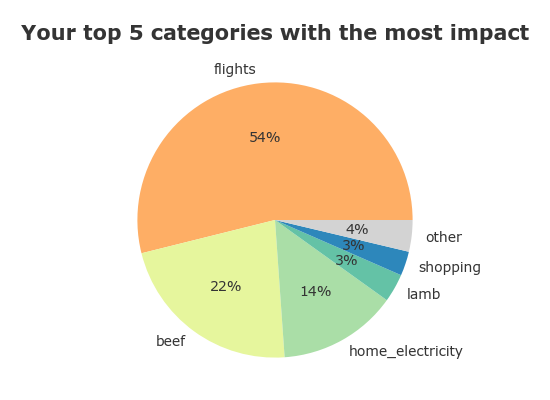
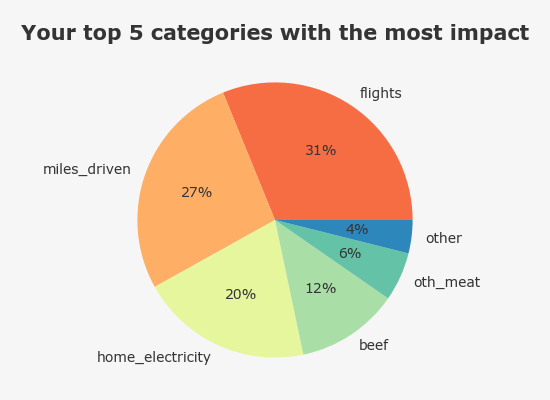
July demo

diff --git a/myapp/templates/myapp/ML.html b/myapp/templates/myapp/ML.html
@@ -54,7 +54,7 @@
 
     <h4>1.1 Generating test data</h4>
     <p>
-        To generate enough test data for the model results to be meaningful and interpretable, I created a Python script that automatically writes user responses into 
+        I simulated expected real-world distribution of answers to generate enough test data for the model results to be interpretable and meaningful. I created a Python script that automatically writes user responses into 
         the Django database thus creating sample quiz takers. It includes a dictionary of weights corresponding to expected distribution of users who would pick a particular 
         choice in real life scenarios instead of utilizing a random selection of quiz choices. 
     </p>

diff --git a/myapp/scripts/results_page.py b/myapp/scripts/results_page.py
@@ -147,15 +147,15 @@ def generate_user_categories(session_id=None):
     top_5 = row1[:5]
     top_5['other'] = row1[5:].sum()
     
-    colors = [ '#FEAE65', '#E6F69D', '#AADEA7', '#64C2A6', '#2D87BB', "#D3D3D3"]
+    colors = ['#F66D44', '#FEAE65', '#E6F69D', '#AADEA7', '#64C2A6', '#2D87BB']
 
     fig, ax = plt.subplots(figsize=(5.5, 4))
     ax.pie(top_5, labels=top_5.index.tolist(), autopct='%1.0f%%', colors=colors, textprops={'color': '#343434', 'fontfamily':'Verdana'})
-    ax.set_title('Your top 5 categories with the most impact', fontfamily='Verdana', color='#343434', ha='center', fontsize=15, fontweight='bold')
+    ax.set_title('Your top 5 categories with the most impact', fontfamily='Verdana', color='#343434', ha='center', fontsize=15, fontweight='demibold')
     plt.subplots_adjust(bottom=0.02, left=0.1) 
-    plt.savefig(user_top5_path)
+    plt.savefig(user_top5_path, facecolor="#f6f6f6", edgecolor='none')
     plt.close()
 
 
 def recommended_actions():
-    return None
+    {''}

diff --git a/myapp/migrations/0015_quiz_question_recommended_action.py b/myapp/migrations/0015_quiz_question_recommended_action.py
@@ -1,0 +1,18 @@
+# Generated by Django 5.1.7 on 2025-06-29 21:55
+
+from django.db import migrations, models
+
+
+class Migration(migrations.Migration):
+
+    dependencies = [
+        ('myapp', '0014_quiz_user_total_emission'),
+    ]
+
+    operations = [
+        migrations.AddField(
+            model_name='quiz_question',
+            name='recommended_action',
+            field=models.TextField(default='None'),
+        ),
+    ]

diff --git a/myapp/views.py b/myapp/views.py
@@ -97,6 +97,7 @@ def quiz_thanks(request, session_id=None):
     user_percentile = int(100 - user_percentile)
 
     rp.generate_similar_subgroup(session_id=session_id)
+    rp.generate_user_categories(session_id=session_id)
 
     return render(request, "myapp/quiz_thanks.html", {'user_percentile': user_percentile, 'user_grade': user_grade})
 

diff --git a/myapp/models.py b/myapp/models.py
@@ -18,6 +18,7 @@ class Quiz_Question(models.Model):
     question_text = models.CharField(max_length=200)
     order = models.IntegerField(default=1)
     question_short = models.CharField(max_length=200)
+    recommended_action = models.TextField(default='None')
 
     def __str__(self):
         return self.question_text
